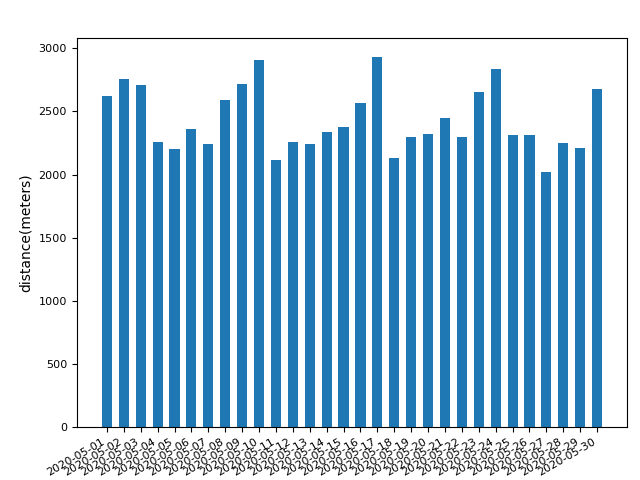
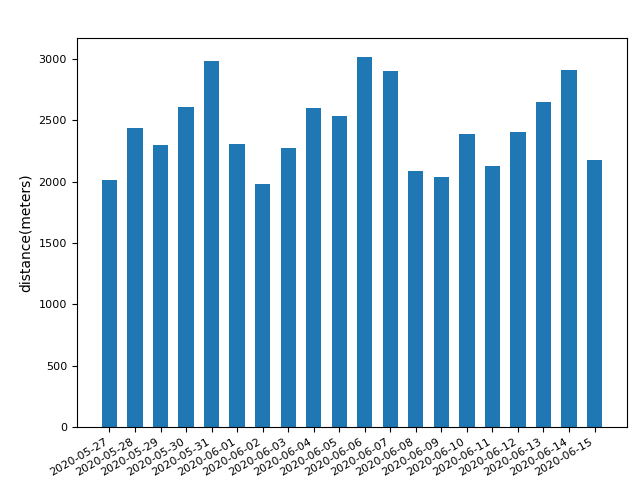
new

diff --git a/plotApplication.py b/plotApplication.py
@@ -171,8 +171,11 @@ def plotDateDistanceAndTimeLen(df):
     #df = binaryDf(df,False)
     print(df.shape)
     
-    days = 30
-    df = df.iloc[-1*30:,:]
+    days = df.shape[0]
+    if days>30:
+        days =30
+        
+    df = df.iloc[-1*days:,:]
     
     df['timeLen'] =  df['timeLen']/60
     plotPdColumn(df['date'],df['timeLen'],title='Pet travel time every day(miniutes)',label='travel_time',xlabel='Date',ylabel='timeLen(miniutes)')
@@ -199,7 +202,7 @@ def plotTempAndDistance(df):
 
     #df = binaryDf(df,False)
     df = df.loc[:,['temperature_mean','distance_day']]
-    df = HandelTempAndDistance(df)
+    #df = HandelTempAndDistance(df)
     #print(df)
     print('min=',np.min(df['temperature_mean']),'max=',np.max(df['temperature_mean']))
     
@@ -218,8 +221,8 @@ def plot(x,y,title='',xlabel='',ylabel=''):
     plt.show()
     
 def plotAll(df):
-    #plotDateDistanceAndTimeLen(df)
-    #plotWeekDayDistanceAndTimeLen(df)
+    plotDateDistanceAndTimeLen(df)
+    plotWeekDayDistanceAndTimeLen(df)
     plotTempAndDistance(df)
     pass
 

diff --git a/genPetData.py b/genPetData.py
@@ -145,7 +145,7 @@ def generateAll(days=60):
     df = generateData(days=days)
     writeToCsv(df,file)
     
-def generateData(startDate='2020-04-01',days=60,everydayLine=250,intersecond=12):
+def generateData(startDate='2020-05-27',days=60,everydayLine=250,intersecond=12):
     time = '09:30:00'
     sDate=datetime.datetime.strptime(startDate,'%Y-%m-%d')
     
@@ -175,7 +175,7 @@ def main():
     #a = noise(N=100,b=0.005)
     #print(a)
     #getTimeLen('09:30:00','09:32:23')
-    generateAll(days=60)#60
+    generateAll(days=20)#60
     pass
     
 if __name__=='__main__':

diff --git a/main.py b/main.py
@@ -109,7 +109,7 @@ def testTracking():
         
 def main():
     parseAllData()
-    testTracking()
+    #testTracking()
     pass
 
 if __name__=='__main__':
